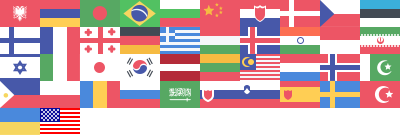
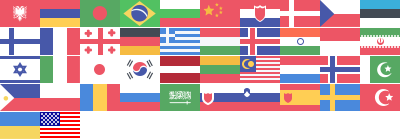
Update menu styles

diff --git a/stylesheets/sass/_menus.scss b/stylesheets/sass/_menus.scss
@@ -11,14 +11,17 @@
     padding: 0;
     background: none;
     border: none;
-    outline: none;
     cursor: pointer;
 
-    &:hover,
-    &.open {
+    &.open,
+    &:hover {
       .menu-stripe {
         @include bg($secondary-color, 0.47);
       }
+    }
+
+    &:focus {
+      outline: none;
     }
 
     &::-moz-focus-inner {
@@ -63,7 +66,8 @@
   list-style: none;
 
   li {
-    display: inline;
+    display: inline-block;
+    vertical-align: middle;
     font-size: 14px;
   }
 }
@@ -77,12 +81,12 @@
 
     &.expanded {
       position: absolute;
-      top: 4px;
+      top: 5px;
       right: 20px;
       z-index: 10;
       display: block;
       min-width: 350px;
-      margin-bottom: 50px;
+      margin-bottom: 60px;
       text-align: left;
       @include bg($white);
       @include box-shadow(0, 0, 5px, rgba($black, 0.3));
@@ -91,6 +95,7 @@
         left: -15px;
         right: -15px;
         min-width: 0;
+        margin-bottom: 40px;
         @include border(top,1px,solid,$primary-color, 0.2);
         @include no-box-shadow;
       }
@@ -98,10 +103,11 @@
   }
 
   .menu {
-    line-height: 1.4;
+    line-height: 1.3;
 
     li {
-      margin-left: 15px;
+      margin-left: 13px;
+
       &:first-child {
         margin-left: 0;
       }
@@ -124,10 +130,11 @@
       }
 
       a {
+        font-weight: 500;
         @include color($secondary-color, 0.67);
 
         &.untranslated {
-          @include color($red, 0.8);
+          @include color($red, 0.5);
         }
 
         &.active,
@@ -151,7 +158,7 @@
 
         @include query($tablet-2) {
           display: block;
-          padding: 7px 25px 4px;
+          padding: 8px 25px 5px;
           &.active,
           &.active:hover {
 
@@ -180,18 +187,18 @@
         }
 
         a {
-          padding: 12px 30px 8px 53px;
+          padding: 11px 30px 9px 53px;
           font-size: 14px;
 
           &:before,
           &:after {
-            top: 14px;
+            top: 13px;
             left: 25px;
           }
 
           &.active,
           &.active:hover {
-            font-weight: bold;
+            font-weight: 600;
           }
 
           &.active,
@@ -263,11 +270,14 @@
   font-size: 0;
   background: none;
   border: none;
-  outline: none;
   cursor: pointer;
 
   &:hover {
-    // TODO: Hover effect
+    opacity: 0.8;
+  }
+
+  &:focus {
+    outline: none;
   }
 
   &:before,
@@ -311,10 +321,11 @@
     top: 26px;
     right: -12px;
     display: block;
+    margin-bottom: 40px;
     padding: 6px 0;
     min-width: 121px;
     background: #fff;
-    @include box-shadow(0, 0, 5px, rgba($black, 0.3));
+    @include box-shadow(0, 5px, 25px, rgba($black, 0.3));
     z-index: 1;
   }
 }
@@ -444,97 +455,97 @@
 }
 
 .fa:after {
-  background-position: -280px -14px;
+  background-position: -180px -14px;
 }
 
 .he:after {
-  background-position: 0 -27px;
+  background-position: 0 -28px;
 }
 
 .it:after {
-  background-position: -20px -27px;
+  background-position: -20px -28px;
 }
 
 .ja:after {
-  background-position: -40px -27px;
+  background-position: -40px -28px;
 }
 
 
 .ko:after {
-  background-position: -60px -27px;
+  background-position: -60px -28px;
 }
 
 .lv:after {
-  background-position: -80px -27px;
+  background-position: -80px -28px;
 }
 
 .lt:after {
-  background-position: -100px -27px;
+  background-position: -100px -28px;
 }
 
 .ms:after {
-  background-position: -120px -27px;
+  background-position: -120px -28px;
 }
 
 .nl:after {
-  background-position: -140px -27px;
+  background-position: -140px -28px;
 }
 
 .no:after {
-  background-position: -160px -27px;
+  background-position: -160px -28px;
 }
 
 .ur:after {
-  background-position: -280px -27px;
+  background-position: -180px -28px;
 }
 
 .fil:after {
-  background-position: 0 -40px;
+  background-position: 0 -42px;
 }
 
 .pl:after {
-  background-position: -20px -40px;
+  background-position: -20px -42px;
 }
 
 .ro:after {
-  background-position: -40px -40px;
+  background-position: -40px -42px;
 }
 
 .ru:after {
-  background-position: -60px -40px;
+  background-position: -60px -42px;
 }
 
 .ar:after {
-  background-position: -80px -40px;
+  background-position: -80px -42px;
 }
 
-.lt:after {
-  background-position: -100px -40px;
+.sr:after {
+  background-position: -100px -42px;
 }
 
 .sk:after {
-  background-position: -120px -40px;
+  background-position: -120px -42px;
 }
 
 .es:after {
-  background-position: -140px -40px;
+  background-position: -140px -42px;
 }
 
 .sv:after {
-  background-position: -160px -40px;
+  background-position: -160px -42px;
 }
 
 .tr:after {
-  background-position: -180px -40px;
+  background-position: -180px -42px;
 }
 
 
 .uk:after {
-  background-position: 0px -53px;
+  background-position: 0px -56px;
 }
 
 .en:after {
-  background-position: -20px -53px;
+  background-position: -20px -56px;
 }
 
 .menu-tags {
